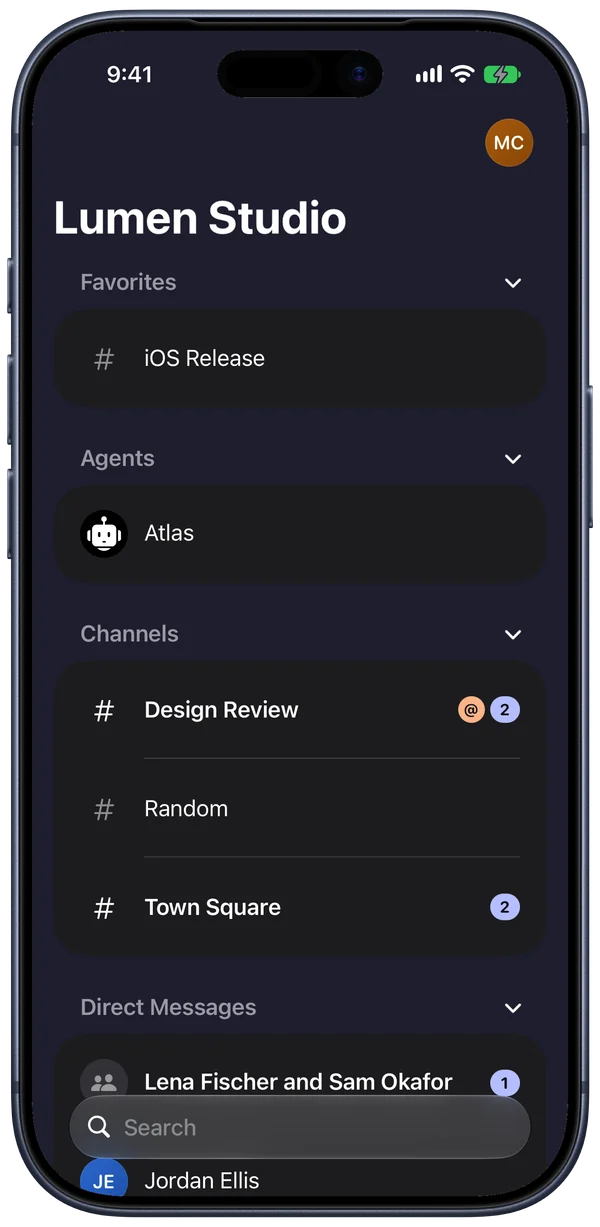
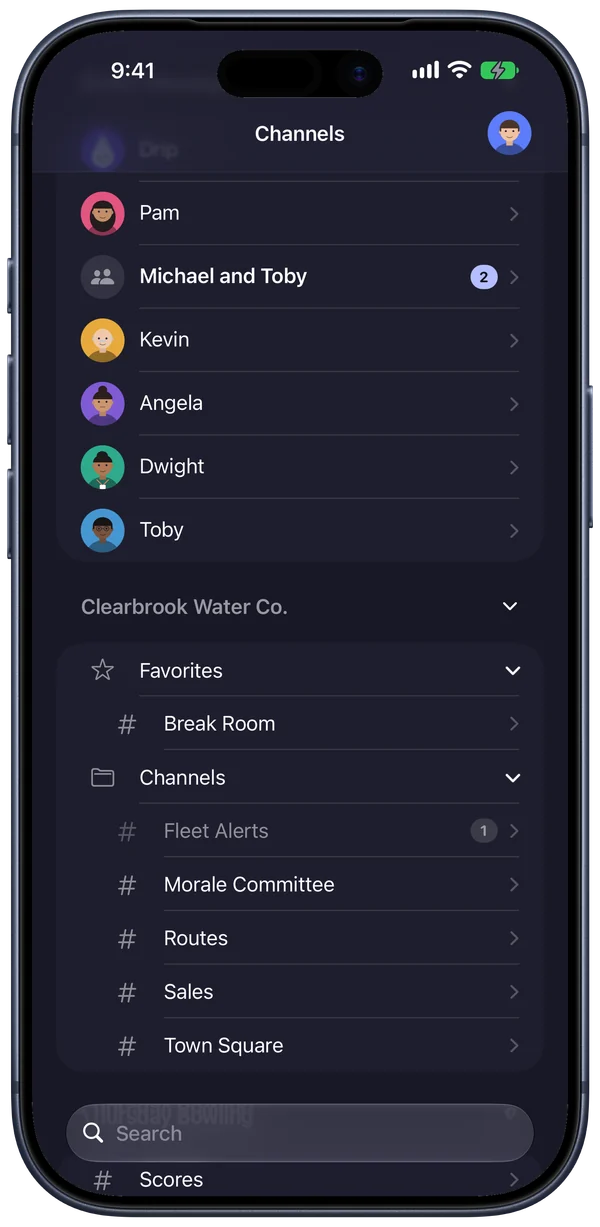
Pictures from the 1.1.1 cast (light and dark), built from the App Store captures

diff --git a/tools/build_assets.py b/tools/build_assets.py
@@ -3,7 +3,9 @@
 # ///
 """Builds the site's framed product images from App Store captures and Apple product bezels.
 
-  uv run tools/build_assets.py <mattermost-native checkout>
+  uv run tools/build_assets.py <mattermost-native checkout> [captures folder under build/appstore]
+
+The captures folder defaults to the 1.1.1 cast's raw set (cast-1.1.1-b38/raw).
 
 Each capture is clipped to the bezel's own screen shape (the transparent region connected to the
 screen centre), so square screenshot corners never show past rounded screen corners. The dark
@@ -13,7 +15,7 @@ import sys, pathlib
 from PIL import Image, ImageDraw, ImageChops
 
 repo = pathlib.Path(sys.argv[1]).expanduser()
-BZ, SH, OUT = repo / "build/bezels", repo / "build/appstore", pathlib.Path(__file__).resolve().parent.parent / "assets"
+BZ, SH, OUT = repo / "build/bezels", repo / "build/appstore" / (sys.argv[2] if len(sys.argv) > 2 else "cast-1.1.1-b38/raw"), pathlib.Path(__file__).resolve().parent.parent / "assets"
 
 def screen_mask(bezel: Image.Image) -> Image.Image:
     """White where the bezel's screen opening is (transparent pixels connected to the centre)."""
@@ -67,15 +69,15 @@ def shot_path(rel, dark):
 ITEMS = [
     # name, bezel light, bezel dark, capture, screen rect, output width, mode
     ("duo-open", "Bezel-iPhone-Duo/iPhone Duo - Star White - Inner Open Landscape.png",
-     "Bezel-iPhone-Duo/iPhone Duo - Night Sky - Inner Open Landscape.png", "duo-unfolded/01-conversation.png", (120, 120, 2853, 2007), 1600, "fill"),
+     "Bezel-iPhone-Duo/iPhone Duo - Night Sky - Inner Open Landscape.png", "duo-unfolded/06-first-unread.png", (120, 120, 2853, 2007), 1600, "fill"),
     ("duo-folded", "Bezel-iPhone-Duo/iPhone Duo - Star White - Outer Closed Portrait.png",
      "Bezel-iPhone-Duo/iPhone Duo - Night Sky - Outer Closed Portrait.png", "duo-folded/03-agent.png", (88, 80, 1398, 2034), 640, "fill"),
     ("iphone-channels", "Bezel-iPhone-17/iPhone 17 Pro - Silver - Portrait.png",
-     "Bezel-iPhone-17/iPhone 17 Pro - Deep Blue - Portrait.png", "iphone-6.3/01-channels.png", (72, 69, 1206, 2622), 600, "fill"),
+     "Bezel-iPhone-17/iPhone 17 Pro - Deep Blue - Portrait.png", "iphone-6.9/01-channels.png", (72, 69, 1206, 2622), 600, "fill"),
     ("iphone-agent", "Bezel-iPhone-17/iPhone 17 Pro - Silver - Portrait.png",
-     "Bezel-iPhone-17/iPhone 17 Pro - Deep Blue - Portrait.png", "iphone-6.3/03-agent.png", (72, 69, 1206, 2622), 600, "fill"),
+     "Bezel-iPhone-17/iPhone 17 Pro - Deep Blue - Portrait.png", "iphone-6.9/03-agent.png", (72, 69, 1206, 2622), 600, "fill"),
     ("iphone-info", "Bezel-iPhone-17/iPhone 17 Pro - Silver - Portrait.png",
-     "Bezel-iPhone-17/iPhone 17 Pro - Deep Blue - Portrait.png", "iphone-6.3/04-channel-info.png", (72, 69, 1206, 2622), 600, "fill"),
+     "Bezel-iPhone-17/iPhone 17 Pro - Deep Blue - Portrait.png", "iphone-6.9/04-channel-info.png", (72, 69, 1206, 2622), 600, "fill"),
     ("ipad", "Bezel-iPad-Pro-(M5)/iPad Pro (M5) 13\" - Silver - Landscape.png",
      "Bezel-iPad-Pro-(M5)/iPad Pro (M5) 13\" - Space Black - Landscape.png", "ipad-13/06-first-unread.png", (124, 118, 2752, 2064), 1400, "fill"),
     ("mac", "Bezel-MacBook-Pro-M5/MacBook Pro M5 14-inch Silver.png",
